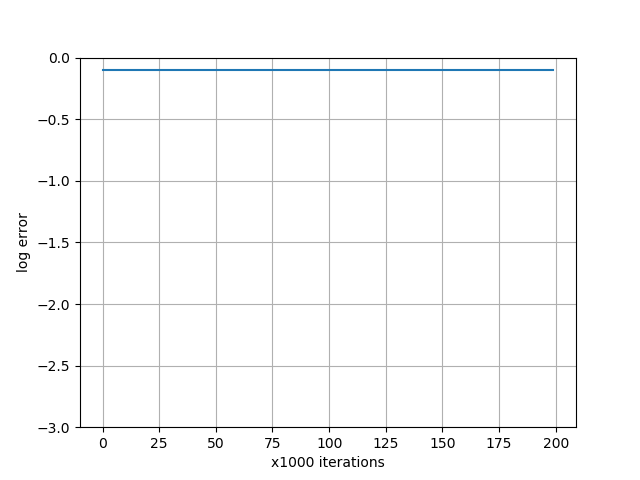
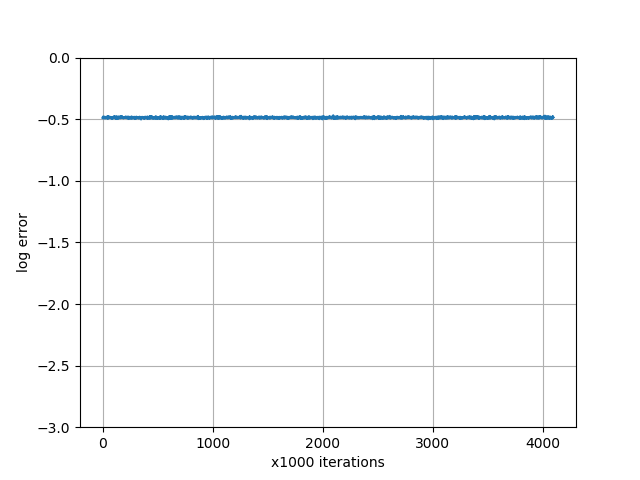
Added error classes to the network

diff --git a/neural_network/network.py b/neural_network/network.py
@@ -10,10 +10,12 @@ class Network:
     def __init__(
         self,
         model=None,
+        error_class=None,
         data_range=(0,1)
     ):  
         # Base params
         self.layers = model
+        self.error = error_class
         self.iter_train = int(1e8)
         self.iter_eval = int(1e6)
 
@@ -48,10 +50,19 @@ class Network:
     def train(self, training_set):
         " Trains the network given a dataset "
         for i in range(self.iter_train):
+            # Take sample from dataser, flatten it and normalize
             sample = self.normalize(next(training_set()).ravel())
+
+            # Forward propagate
             output = self.forward_prop(sample)
-            self.error_history.append(0.8)
-            #print(output)
+
+            # Compute errors
+            error_array = self.error.calc(sample, output) # 2X2 size
+            error_d_array = self.error.calc_d(sample, output)
+            error = np.mean(error_array**2)**0.5
+
+            # Error visualization
+            self.error_history.append(error)
             if (i+1)%self.report_interval == 0:
                 current_error = self.report()
                 print(f"Report|Iteration:{i+1}|Error:{current_error}")
@@ -60,11 +71,20 @@ class Network:
     def evaluate(self, evaluation_set):
         " Evaluates the network given a dataset (of unseen data) "
         for i in range(self.iter_eval):
-            sample = self.normalize(next(evaluation_set()).ravel())
-            self.error_history.append(1)
-            #print(sample)
+            # Take sample from dataser, flatten it and normalize
+            sample = self.normalize(next(training_set()).ravel())
+
+            # Forward propagate
+            output = self.forward_prop(sample)
+
+            # Compute errors
+            error_array = self.error.calc(sample, output) # 2X2 size
+            error = np.mean(error_array**2)**0.5
+
+            # Error visualization
+            self.error_history.append(error)
             if (i+1)%self.report_interval == 0:
-                self.report()
+                current_error = self.report()
         return
     
     # Inputs to the net should be between [-0.5, 0.5] cause gradient descent
@@ -107,4 +127,5 @@ class Network:
         fig.savefig(os.path.join(self.report_folder, self.report_name))
         plt.close()
 
+        # Returns the last log10 calculated error for the CLI logging
         return error_history[-1]

diff --git a/run_net.py b/run_net.py
@@ -1,6 +1,7 @@
 from neural_network.network import Network
 from neural_network.layer import Dense
 import neural_network.activation as activations
+import neural_network.error as errors
 
 import dataset_gen as data
 
@@ -19,7 +20,7 @@ layers = []
 for i in range(len(n_nodes)-1):
     layers.append(Dense(n_nodes[i], n_nodes[i+1], activations.tanh))
 
-autoencoder = Network(model=layers, data_range=(0, 1))
+autoencoder = Network(model=layers, error_class=errors.sqr, data_range=(0, 1))
 
 # Run dumb methods
 autoencoder.train(training)

diff --git a/neural_network/error.py b/neural_network/error.py
@@ -1,0 +1,17 @@
+import numpy as np
+
+class sqr:
+    @staticmethod
+    def calc(x, y):
+        return (y-x)**2
+    @staticmethod
+    def calc_d(x, y):
+        return 2*(y-x)
+
+class abs:
+    @staticmethod
+    def calc(x, y):
+        return np.abs(y-x)
+    @staticmethod
+    def calc_d(x, y):
+        return np.sign(y-x)
